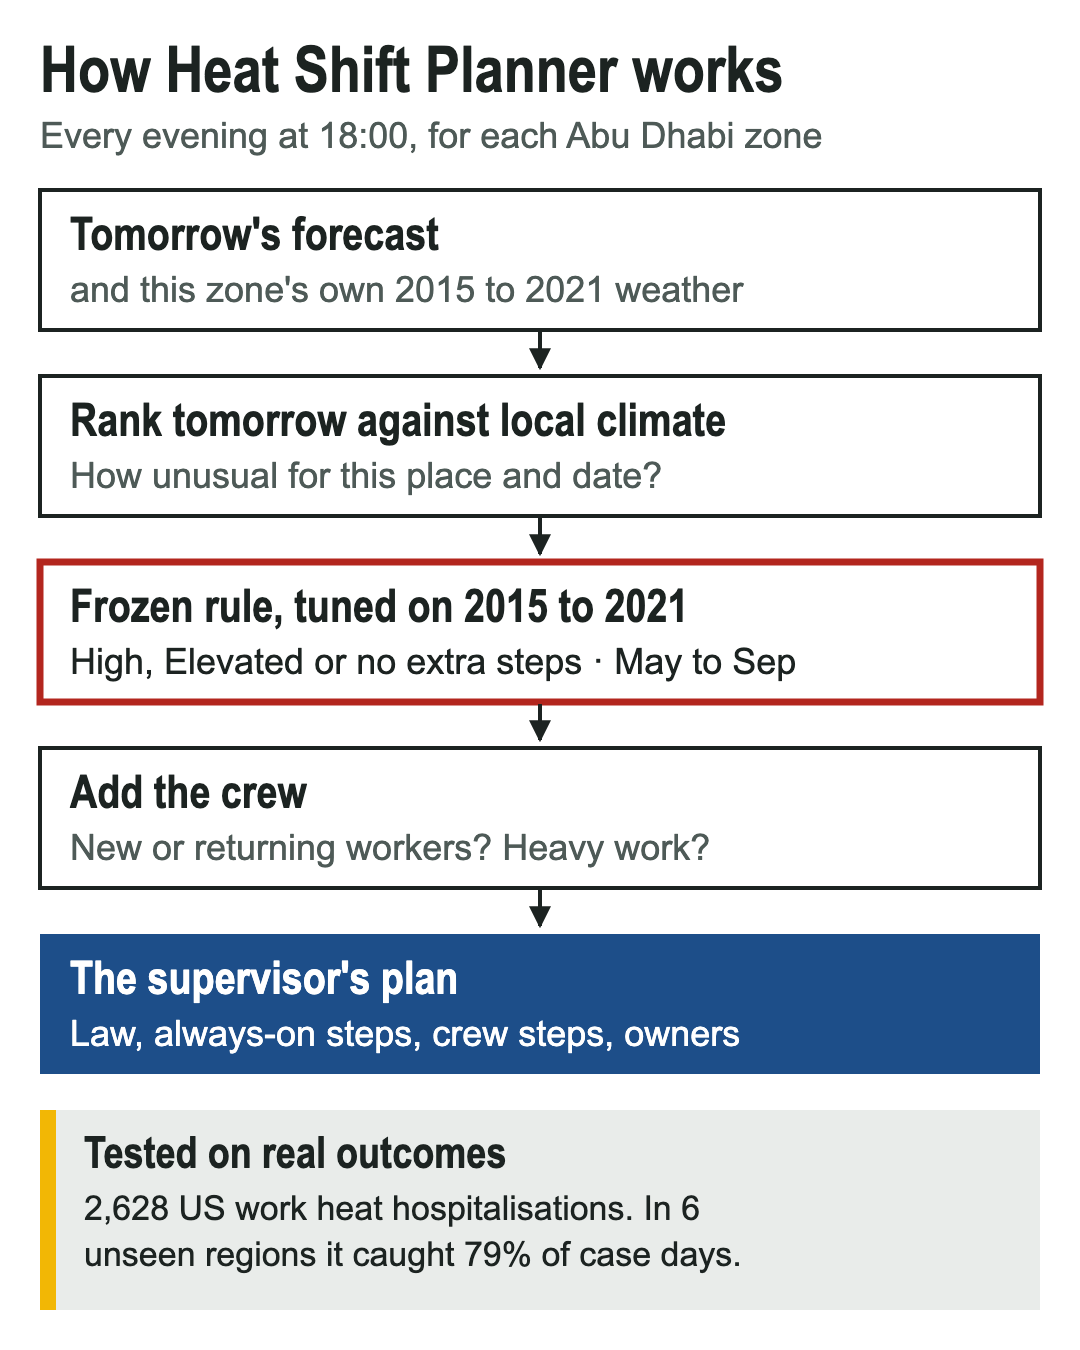
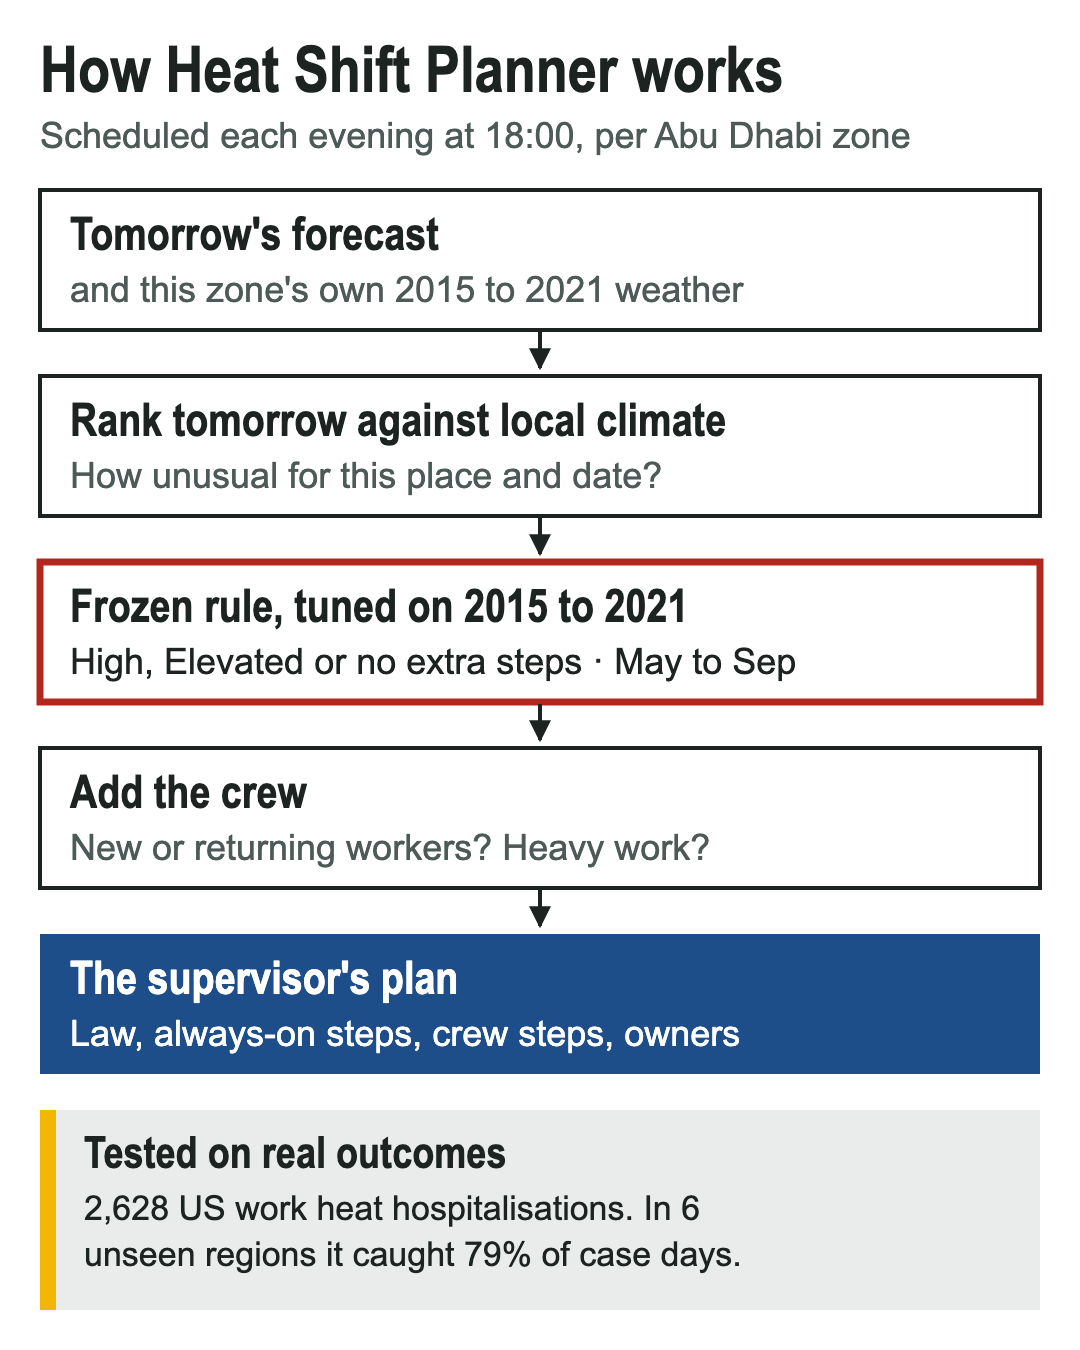
fix(claims): wording from Phase 4 audit (tuning regions, regulator suppression, scheduled refresh, demo escalation, NIOSH attribution); re-rendered diagrams

Changed region(s): [[0.0306, 0.0933, 0.8556, 0.1244]]

diff --git a/web/app.js b/web/app.js
@@ -106,7 +106,7 @@ const VIEWS = {
     if (!day) return `${zoneBar()}<h1>No data for this day</h1><p>Use the law and the always-on protections.</p>${legalBlock({ date: state.replayDate || HeatLogic.dubaiDate(new Date(), 1) })}`;
     const t = TIERS[day.tier] || TIERS["Insufficient data"];
     const when = state.replayDate ? "That day" : `${day.when || "Tomorrow"}, ${esc(fmtDate(day.date))}`;
-    const issued = state.replayDate ? "Real weather for that day (ERA5 reanalysis)." : `Forecast issued ${esc(DATA.live.generated_utc)} UTC. Updates daily at 18:00.`;
+    const issued = state.replayDate ? "Real weather for that day (ERA5 reanalysis)." : `Forecast issued ${esc(DATA.live.generated_utc)} UTC. Next update scheduled for 18:00 Abu Dhabi time.`;
     const off = day.tier === "Outside tested season" && !state.replayDate ? `<p><a href="#replay">Replay a real summer day</a> to see how alerts work.</p>` : "";
     return `${zoneBar()}
       <section class="tier ${t.cls}" aria-live="polite"><p class="small">${when}</p><p class="word">${t.word}</p><p class="what">${t.what}</p></section>
@@ -126,7 +126,7 @@ const VIEWS = {
       <p>Two answers. No names are collected.</p>
       ${q("newWorkers", "Does the crew include new or returning workers?", "New: in their first 5 days. Returning: back after more than 14 days away.")}
       ${q("heavy", "Is heavy outdoor work planned?", "For example a concrete pour, manual lifting or digging.")}
-      <p class="small">"Not sure" is treated as yes.</p>
+      <p class="small">"Not sure", or no answer, is treated as yes.</p>
       ${cta("#plan", "See the plan", `<a class="btn secondary" href="#home">Back</a>`)}`;
   },
   plan() {
@@ -147,8 +147,8 @@ const VIEWS = {
     const t = TIERS[tier] || TIERS["Insufficient data"];
     const note = raised ? `<p class="status">Raised one level from ${esc(day.tier === "Insufficient data" ? "Elevated" : day.tier)} because the crew may include new or returning workers. This is our rule, based on guidelines, not tested on outcomes.</p>` : "";
     const ack = state.ackAt
-      ? `<div class="ack" role="status"><strong>Plan acknowledged at ${esc(state.ackAt)}.</strong><p>Plans not acknowledged by 06:30 go to the OSH practitioner. Next forecast: tomorrow at 18:00.</p></div>`
-      : `<p class="small">Plans not acknowledged by 06:30 go to the OSH practitioner.</p>`;
+      ? `<div class="ack" role="status"><strong>Plan acknowledged at ${esc(state.ackAt)}.</strong><p>Plans not acknowledged by 06:30 would go to the OSH practitioner (this demo sends nothing). Next forecast scheduled for 18:00 Abu Dhabi time.</p></div>`
+      : `<p class="small">Plans not acknowledged by 06:30 would go to the OSH practitioner (this demo sends nothing).</p>`;
     return `${zoneBar()}<h1>${state.replayDate ? "The plan for that day" : "Tomorrow's plan"}</h1>
       <section class="tier ${t.cls}"><p class="word">${t.word}</p></section>${note}
       <section class="layer law"><h2>Required by law</h2><ul class="actions">${law}</ul></section>
@@ -160,17 +160,17 @@ const VIEWS = {
   trust() {
     const e = DATA.evidence, h = e.holdout;
     return `<h1>How was this tested?</h1>
-      <p>There is no public data on heat illness at work in Abu Dhabi. So the rule was tested on the closest real record we could find: every work-related heat hospitalisation reported to US federal OSHA from 2015 to 2025 (${e.reports_total.toLocaleString()} reports), matched with the weather on that day.</p>
+      <p>There is no public data on heat illness at work in Abu Dhabi. So the rule was tested on the closest real record we could find: the work-related heat hospitalisations reported to US federal OSHA from January 2015 to November 2025 (${e.reports_total.toLocaleString()} reports), matched with the weather on that day.</p>
       <div class="facts">
         <div><span class="big">${pct(h.r4_sensitivity)}</span><p>of days with a reported heat hospitalisation got an alert, in ${h.regions} US regions the rule had never seen (${h.event_days} such days; 95% interval ${pct(h.r4_ci[0])} to ${pct(h.r4_ci[1])}). It alerted on ${pct(h.r4_alert_share)} of days.</p></div>
-        <div><span class="big">${pct(e.fixed_80f_alert_share)}</span><p>of days in the same unseen regions would get an alert under the common fixed trigger (heat index 80 °F). An alert that rarely switches off gets ignored.</p></div>
+        <div><span class="big">${pct(e.fixed_80f_alert_share)}</span><p>of days in the same unseen regions would get an alert under the common fixed trigger (heat index 80 °F). An alert that rarely switches off is easy to ignore.</p></div>
         <div><span class="big">${Math.round(h.spread_r4 * 100)} vs ${Math.round(h.spread_r2 * 100)}</span><p>points of spread in alert load between cool and hot cities: thresholds set from each place's own climate, against fixed thresholds.</p></div>
         <div><span class="big">${pct(e.dayahead_same_decision)}</span><p>of days got the same decision from the forecast made the evening before as from the weather that actually happened (8 US regions, 2024 to 2025). The forecast ran warm, so it alerted on more days (${pct(e.dayahead_alert_share)} against ${pct(e.observed_alert_share_same_days)}).</p></div>
       </div>
       <h2>What did not work</h2>
-      <p>We expected recent incident reports nearby to improve the alert. A rule that also used them as a trigger, tuned to the same alert budget, caught ${Math.abs(Math.round(e.workplace_trigger.r3_minus_r2 * 100))} percentage points ${e.workplace_trigger.r3_minus_r2 < 0 ? "fewer" : "more"} heat days than the weather-only rule (difference ${Math.round(e.workplace_trigger.r3_minus_r2 * 100)}, 95% interval ${Math.round(e.workplace_trigger.ci[0] * 100)} to ${Math.round(e.workplace_trigger.ci[1] * 100)}). So here they are a prompt to check that workplace, not a reason to raise the alert.</p>
+      <p>We expected recent incident reports nearby to improve the alert. A rule that also used them as a trigger, tuned to the same training alert budget, caught ${Math.abs(Math.round(e.workplace_trigger.r3_minus_r2 * 100))} percentage points ${e.workplace_trigger.r3_minus_r2 < 0 ? "fewer" : "more"} heat days than the same rule without them (an earlier fixed-threshold rule, 8 US regions, 2022 to 2025; difference ${Math.round(e.workplace_trigger.r3_minus_r2 * 100)}, 95% interval ${Math.round(e.workplace_trigger.ci[0] * 100)} to ${Math.round(e.workplace_trigger.ci[1] * 100)}). So here they are a prompt to check that workplace, not a reason to raise the alert.</p>
       <h2>Limits</h2>
-      <p>US data, reported cases only, and most cases go unreported. Not validated on Abu Dhabi outcomes. Tested for May to September only. It does not calculate the Thermal Work Limit. The heat index is used only to rank days: the US weather service says its formula "is not valid for extreme temperature and relative humidity conditions", which Abu Dhabi summers often reach. The crew rules come from guidelines and were not tested. It is decision support for supervisors, not a diagnosis, and never a clearance to work.</p>
+      <p>US data, reported cases only, and most cases go unreported. Not validated on Abu Dhabi outcomes. Tested for May to September only. It does not calculate the Thermal Work Limit. The heat index is used only to rank days: the US weather service says its formula "is not valid for extreme temperature and relative humidity conditions", conditions Abu Dhabi summers can reach. The crew rules come from guidelines and were not tested. It is decision support for supervisors, not a diagnosis, and never a clearance to work.</p>
       ${cta("#home", "Back to the plan")}`;
   },
   replay() {

diff --git a/web/logic.js b/web/logic.js
@@ -26,7 +26,7 @@
       steps.push({ text: `Move heavy tasks away from the hottest hours${when}.`, owner: "Supervisor · when setting the shift plan" });
     }
     if (answeredYes(crew.newWorkers)) {
-      steps.push({ text: "New or returning workers: no more than 20% of the usual heat exposure on day 1, adding 20% a day.", owner: "Supervisor · NIOSH 2016 criteria document" });
+      steps.push({ text: "New or returning workers: no more than 20% of the usual heat exposure on day 1, adding 20% a day.", owner: "Supervisor · NIOSH 2016 schedule for new workers; using it for returning workers too is stricter than NIOSH" });
       steps.push({ text: "No unacclimatised worker in medium or high risk heat work.", owner: "Supervisor · ADPHC Technical Guideline, Safety in the Heat" });
     }
     if (!steps.length) steps.push({ text: inSeason ? "No extra steps from the forecast." : "No forecast-based steps outside May to September.", owner: "" });

diff --git a/web/index.html b/web/index.html
@@ -4,7 +4,7 @@
 <meta charset="utf-8">
 <meta name="viewport" content="width=device-width, initial-scale=1">
 <title>Heat Shift Planner</title>
-<meta name="description" content="Tomorrow's heat plan for outdoor crews in Abu Dhabi: legal requirements, a locally calibrated heat alert, and the actions for your crew.">
+<meta name="description" content="Tomorrow's heat plan for outdoor crews in Abu Dhabi: legal requirements, a heat alert ranked against local climate, and the actions for your crew.">
 <link rel="preconnect" href="https://fonts.googleapis.com">
 <link rel="preconnect" href="https://fonts.gstatic.com" crossorigin>
 <link href="https://fonts.googleapis.com/css2?family=Atkinson+Hyperlegible:ital,wght@0,400;0,700;1,400&family=Barlow+Condensed:wght@500;700&display=swap" rel="stylesheet">

diff --git a/README.md b/README.md
@@ -20,7 +20,7 @@ The regulator sees zones, never people. Nothing in the app clears anyone to work
 ## Why a new rule was needed
 
 A fixed heat trigger fails in both directions. The common US trigger (heat index ≥ 80 °F) alerted on **93 %** of summer days in
-the original 8 test regions and **82 %** in 6 unseen ones: an alert that rarely switches off. A threshold tuned on Texas and Florida would put **every Abu Dhabi day from
+the original 8 test regions and **82 %** in 6 unseen ones: an alert that rarely switches off. A threshold tuned on the 8 original US regions (Texas, Florida, Oklahoma, Missouri) would put **every Abu Dhabi day from
 June to September** in its top tier (`docs/g1_results.md`, transfer check). Heat-health research sets thresholds relative to
 local climate because people adapt to their usual heat (Anderson & Bell 2009, PMID 19194300; Gasparrini et al. 2015,
 PMID 26003380). So each zone gets thresholds from its own weather history.
@@ -37,7 +37,8 @@ Code: `heatwarn/relative.py`; frozen parameters `results/frozen_params_r4.json`.
 No public data on work-related heat illness exists for Abu Dhabi. The closest real record is **US federal OSHA's Severe Injury
 Reports**: 2,628 work-related heat hospitalisations, January 2015 to November 2025, with date and location. Each was matched to
 that day's weather. Rules were tuned on 2015–2021, committed, and scored once on later data. Every step was pre-registered
-(`docs/backtest_protocol.md`, `docs/protocol_v3_relative.md`), including expected results and one logged amendment.
+(`docs/backtest_protocol.md`, `docs/protocol_v3_relative.md`), including expected results and one logged amendment. One logged
+bug fix in the confidence-interval code led to a re-run with rules and point estimates unchanged (`docs/decisions.md`).
 
 **Transfer test: 6 US regions never used in tuning, 2022–2025** (86 days with a reported heat hospitalisation; `results/holdout_results.json`)
 
@@ -45,11 +46,11 @@ that day's weather. Rules were tuned on 2015–2021, committed, and scored once 
 |---|---|---|
 | Fixed heat index ≥ 80 °F | 98.8 % (95.8–100) | 82 % |
 | Calendar (15 Jun–15 Sep) | 76.7 % (65.8–86.0) | 61 % |
-| Fixed thresholds tuned in TX/FL | 70.9 % (57.1–82.1) | 40 % |
+| Fixed thresholds tuned on the 8 original regions | 70.9 % (57.1–82.1) | 40 % |
 | **Relative rule (this app)** | **79.1 % (69.6–87.9)** | **49 %** |
 
 - Alert load stayed in a **25-point band** across cool and hot cities (36–60 % of days) with the relative rule, against
-  **82 points** (7 % in Pittsburgh to 89 % in McAllen) with fixed thresholds. The pre-registered success criterion was met.
+  **82 points** (7 % in the Pittsburgh area to 89 % in McAllen) with fixed thresholds. The pre-registered success criterion was met.
 - The sensitivity gain over fixed thresholds (+8.1 points, 95 % CI −6.9 to +24.3) is **not statistically clear**.
 - Within the climates it was tuned on, fixed thresholds did better (training sensitivity 78.4 % vs 67.4 %).
 
@@ -61,8 +62,8 @@ The forecast ran warm, so it alerted on more days (59 % vs 51 %) and caught more
 ## What did not work
 
 We expected recent incident reports nearby to improve the alert, and pre-registered that test. A rule that also used them
-as a trigger, tuned to the same training alert budget, caught **11.6 points fewer** heat days than the weather-only rule
-(95 % CI −17.7 to −5.8) (`results/test_results.json`). This compares two separately tuned rules, not the reports' isolated
+as a trigger, tuned to the same training alert budget, caught **11.6 points fewer** heat days than the same rule without them
+(95 % CI −17.7 to −5.8) (`results/test_results.json`; the earlier fixed-threshold rule, 8 original regions, 2022–2025). This compares two separately tuned rules, not the reports' isolated
 value: spending part of the alert budget on "recent report" days left less for hot days. In the app the reports appear only
 as a prompt to check that workplace, never as a reason to raise the level.
 
@@ -83,8 +84,8 @@ ADPHC Code of Practice 11.0 and Technical Guideline "Safety in the Heat", v4.0, 
 
 ## Privacy and governance
 
-No worker names, health data or job histories are collected. Crew questions are yes / no / not sure ("not sure" counts as yes).
-The regulator view aggregates by zone and hides zones with fewer than 5 sites. Not for employment or disciplinary use.
+No worker names, health data or job histories are collected. Crew questions are yes / no / not sure ("not sure", or no answer, counts as yes).
+The regulator view aggregates by zone and hides site counts and incident notices for zones with fewer than 5 sites. Not for employment or disciplinary use.
 Sites, acknowledgements and incident notices in the demo are simulated and labelled.
 
 ## Data sources and licences
@@ -101,7 +102,7 @@ uv run pytest -q && node --test web/tests/logic.test.js
 uv run python scripts/fetch_weather.py && uv run python scripts/fetch_weather.py --holdout
 uv run python scripts/tune.py && uv run python scripts/score_test.py        # original regions
 uv run python scripts/tune_relative.py && uv run python scripts/score_holdout.py
-uv run python scripts/fetch_dayahead.py && uv run python scripts/score_dayahead.py
+uv run python scripts/fetch_dayahead.py && uv run python scripts/score_dayahead.py && uv run python scripts/score_dayahead_r4.py
 uv run python scripts/abu_dhabi_tiers.py && uv run python scripts/build_web_data.py
 python3 -m http.server 8765 --directory web
 ```

diff --git a/docs/g1b_relative_results.md b/docs/g1b_relative_results.md
@@ -30,7 +30,7 @@ R4 67.4 % sensitivity at 43 % alert days vs R2 78.4 % at 45 %. **Within the clim
 | Pittsburgh area | 1/8 (7 %) | 7/8 (36 %) |
 | Atlanta area | 7/13 (18 %) | 9/13 (45 %) |
 
-What it means: absolute thresholds tuned in Texas/Florida go almost silent in cooler cities (Pittsburgh 1 of 8 event days)
+What it means: absolute thresholds tuned on the 8 original regions (Texas, Florida, Oklahoma, Missouri) go almost silent in cooler cities (Pittsburgh 1 of 8 event days)
 and fire almost daily in the hottest (McAllen 89 %). The relative rule keeps alert load in a similar band in every climate
 and still caught 79 % of reported event days. Small numbers: 86 event days in total.
 
